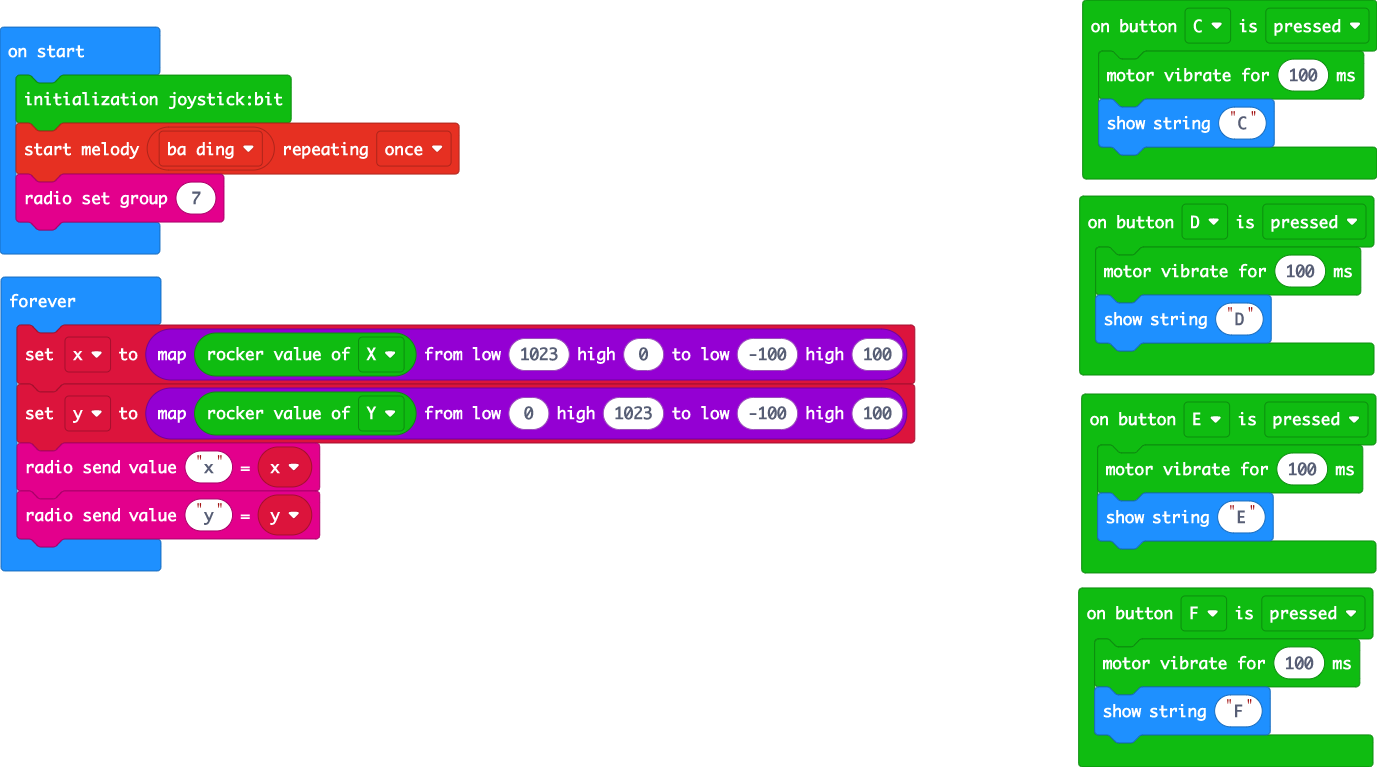
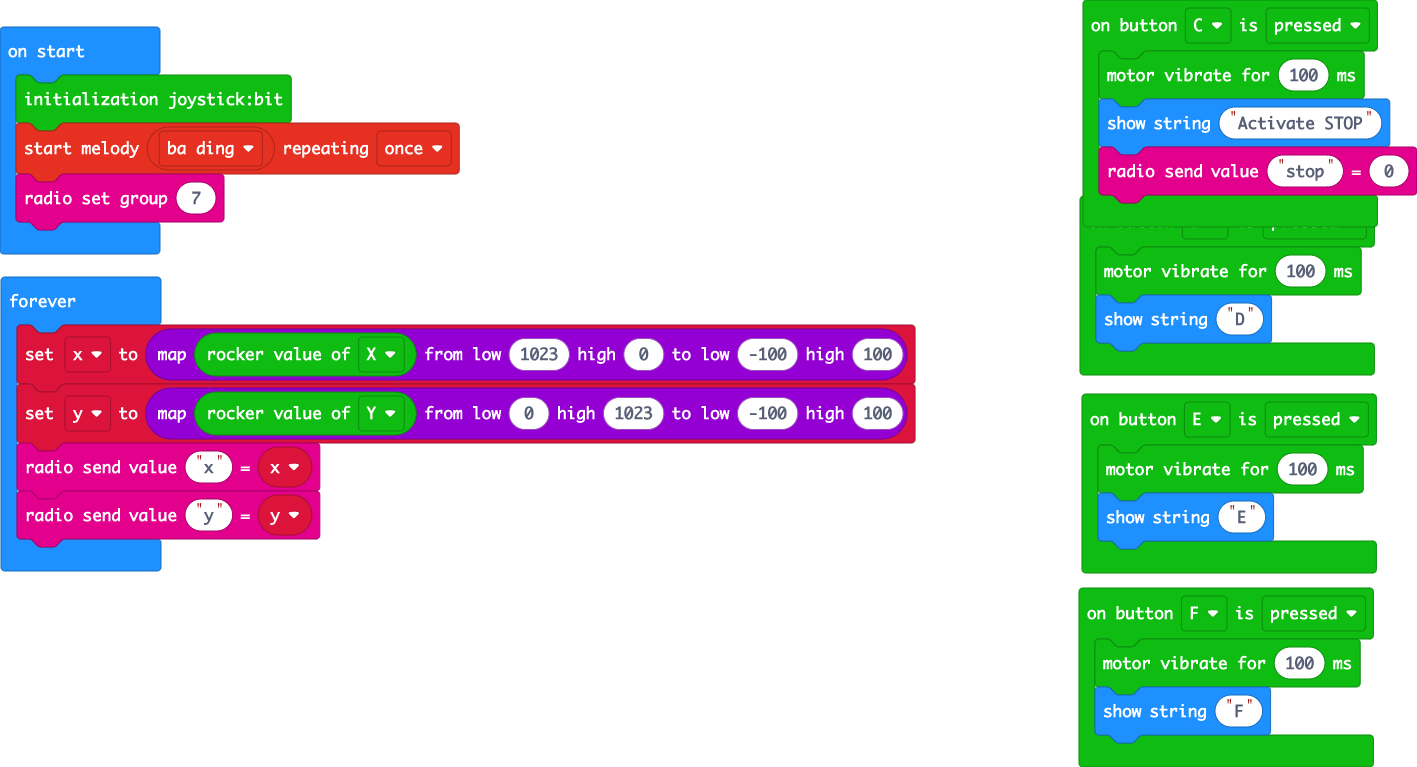
Added Stop feature

diff --git a/main.ts b/main.ts
@@ -12,7 +12,8 @@ joystickbit.onButtonEvent(joystickbit.JoystickBitPin.P13, joystickbit.ButtonType
 })
 joystickbit.onButtonEvent(joystickbit.JoystickBitPin.P12, joystickbit.ButtonType.down, function () {
     joystickbit.Vibration_Motor(100)
-    basic.showString("C")
+    basic.showString("Activate STOP")
+    radio.sendValue("stop", 0)
 })
 let y = 0
 let x = 0
